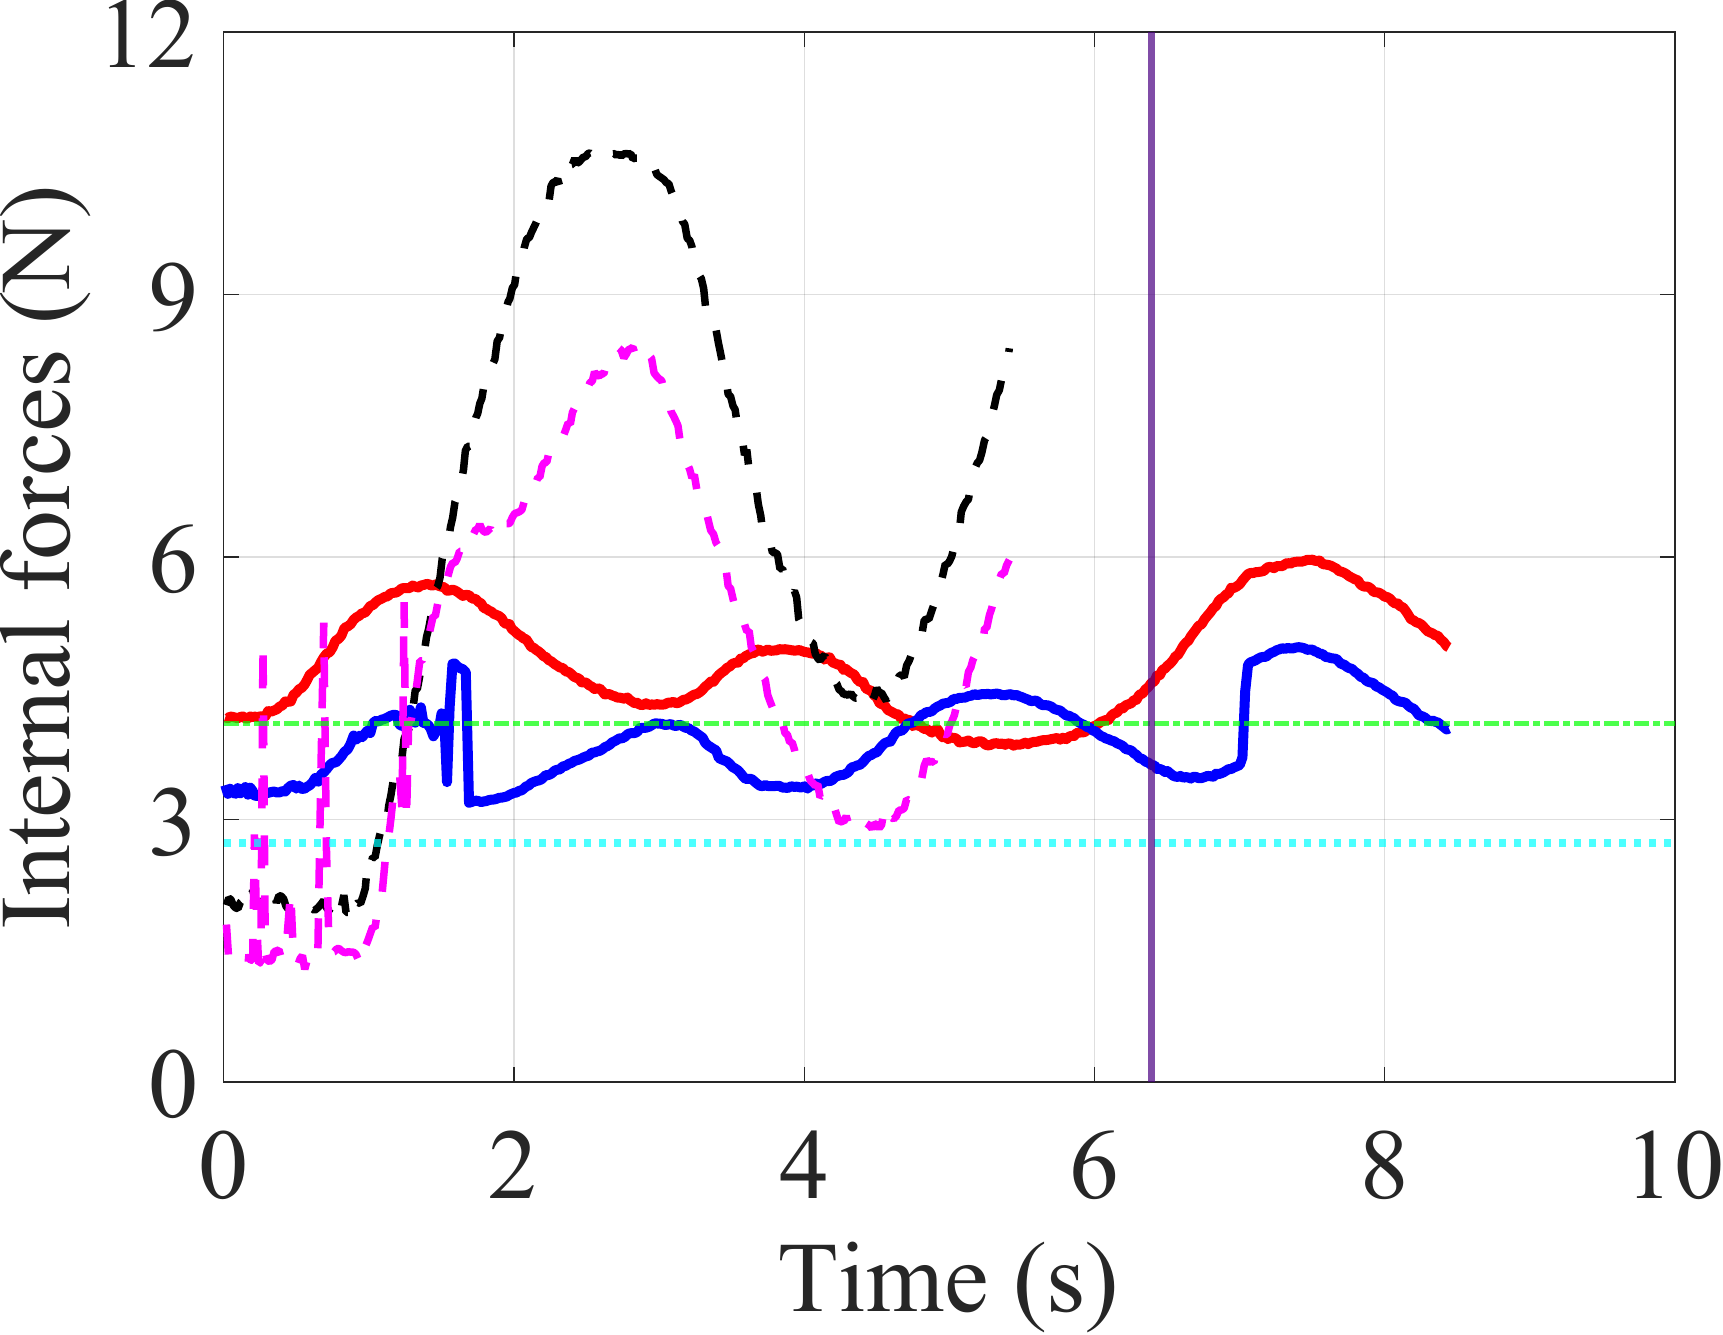
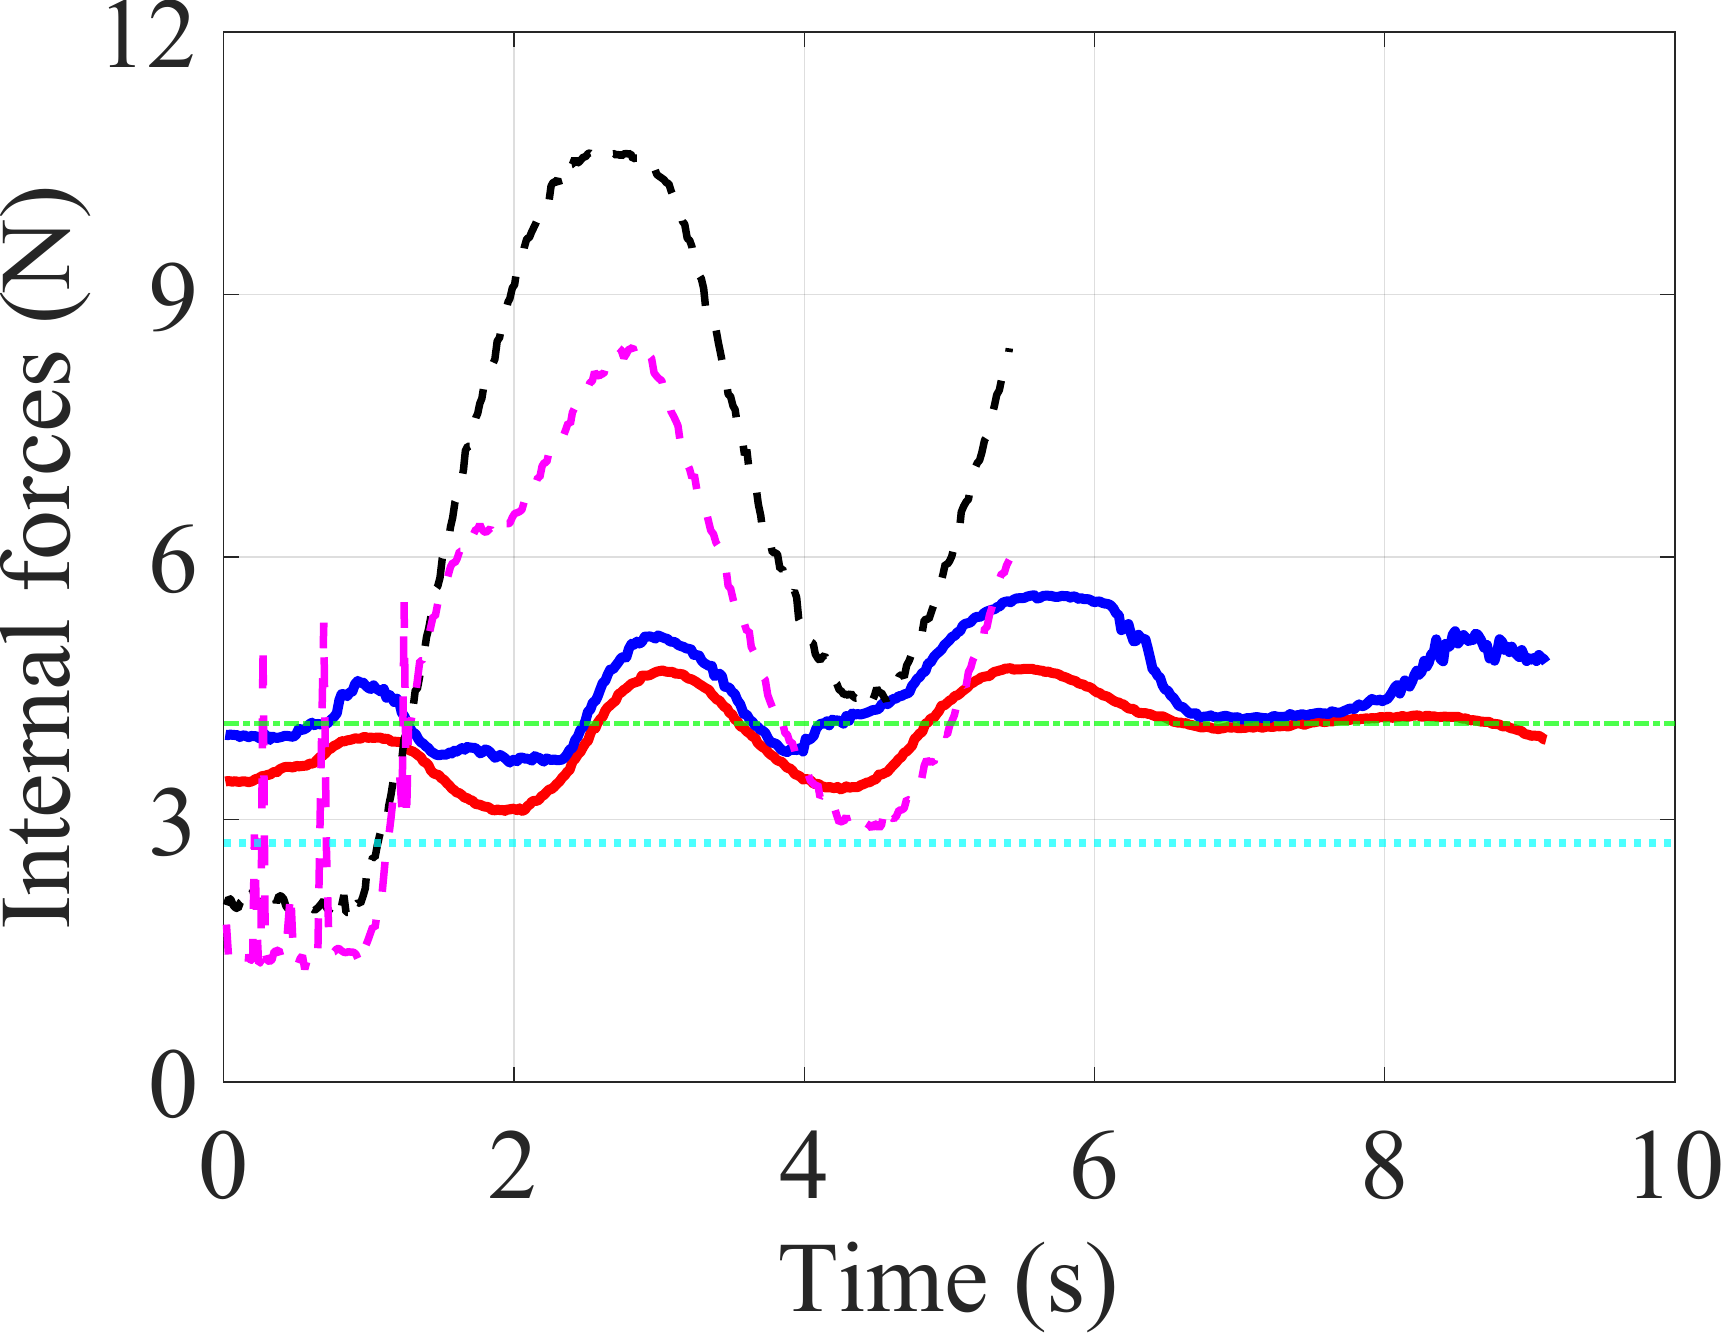
docs: refresh foam-frame transporting force results

diff --git a/README.md b/README.md
@@ -359,6 +359,15 @@ For $w_{\mathrm{k}i}$, setting it to zero reduces success to 0%, while the selec
   <img src="assets/paper/EXP08/cloth/d_f_legend2.png" alt="Legend for additional-target force plots" width="72%">
 </p>
 
+Foam-frame transporting-force statistics with AIC (N):
+
+| EE | Desired force | Maximum | Minimum | Mean | RMSE |
+|---|---:|---:|---:|---:|---:|
+| L | 4.10 | 4.73 | 3.10 | 3.98 | 0.45 |
+| R | 4.10 | 5.56 | 3.65 | 4.48 | 0.66 |
+
+Statistics use the compensated force traces from the updated experiment.
+
 ## Fault-tolerance demonstration
 
 ### Left-arm interruption
